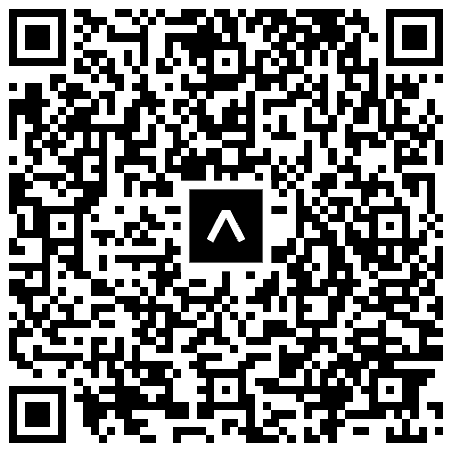
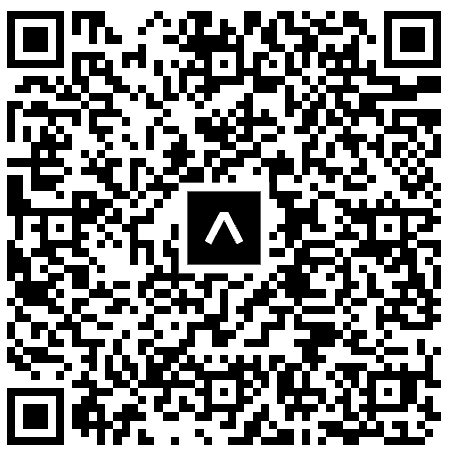
Final commit

diff --git a/README.md b/README.md
@@ -42,7 +42,7 @@ L'application est disponible sur le store Expo Go. Pour l'utiliser, il suffit de
 <img src="/screenshots/expo-published-app-qr-code.png" alt="QR Code de l'application" title="QR Code de l'application" width="200">
 
 Ou cliquez sur ce lien pour retrouver le QR code:
-[QR Code](https://expo.dev/preview/update?message=Icon%20and%20splash&updateRuntimeVersion=1.0.0&createdAt=2024-06-19T18%3A51%3A41.253Z&slug=exp&projectId=318c409c-207a-440e-8855-539c729ecb75&group=d4797db7-600d-4153-99b8-79886c4e81ba)
+[QR Code](https://expo.dev/preview/update?message=Production%20version&updateRuntimeVersion=1.0.0&createdAt=2024-06-23T16%3A12%3A00.236Z&slug=exp&projectId=318c409c-207a-440e-8855-539c729ecb75&group=6b7c4cea-d549-4ed5-9459-b32bd3d6768b)
 
 ## Auteur
 - [Sébastien Burnet](https://github.com/sebastien-brnt)
